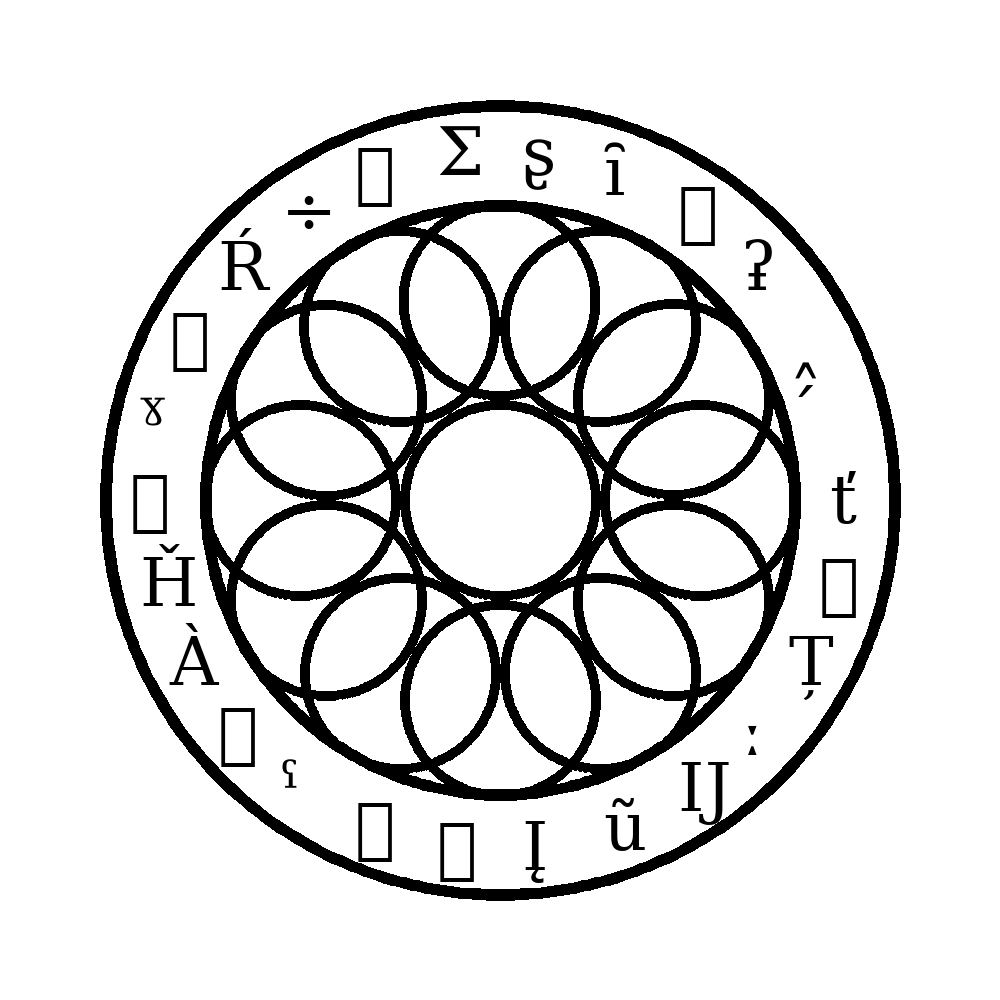
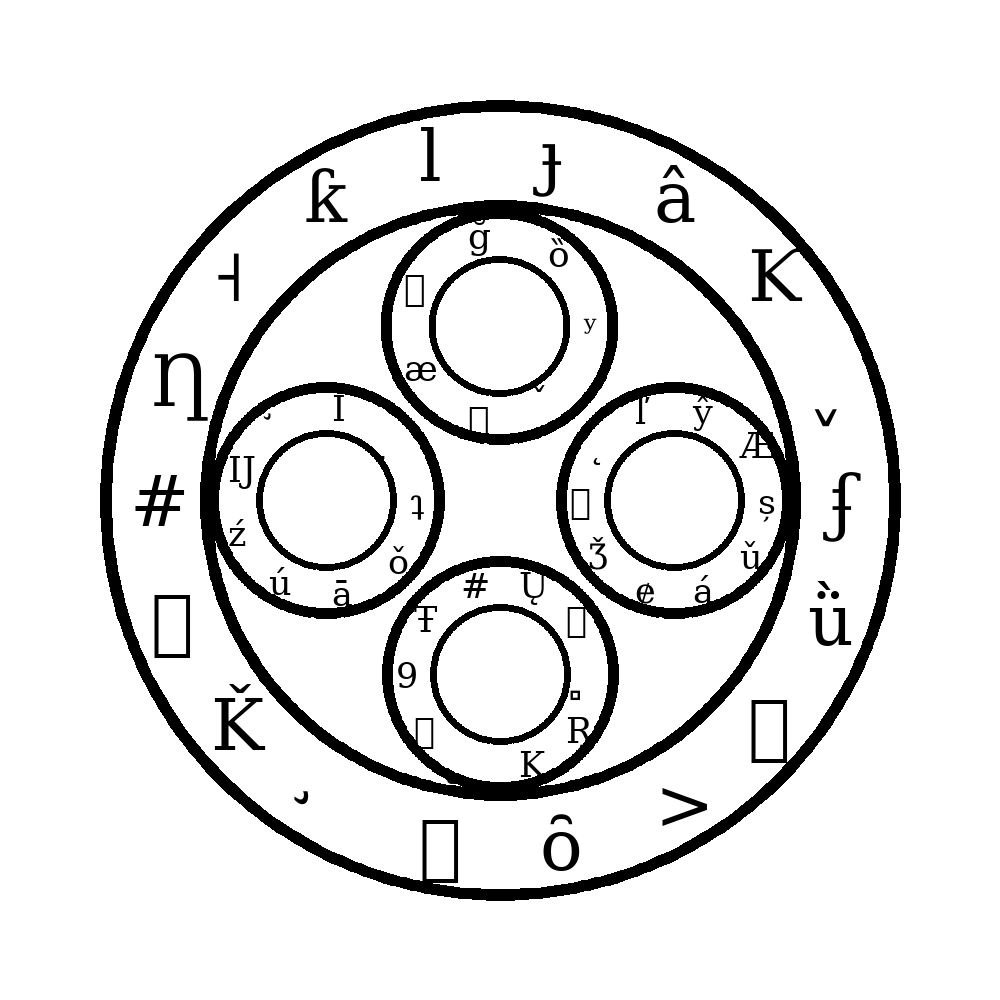
Added a pentagram to the options of possible inner circles

diff --git a/Generator/Main.py b/Generator/Main.py
@@ -6,13 +6,15 @@ import random
 import string
 
 
-#draw small circles
+# draw small circles
 def drawCircle(x, y, size):
     d.ellipse(((x-size, y-size), (x+size, y+size)), fill=None, outline = (0 ,0 ,0), width=int(size*0.1))
 
-#places an individual letter
+
+# places an individual letter
 def drawLetter(x, y, letter, font):
     d.text((x, y), letter, font=font, fill=(0,0,0,255))
+
 
 def circleCenter():
     # loop to draw circles in a circle
@@ -25,6 +27,7 @@ def circleCenter():
     # center circle for style
     drawCircle(imageSize / 2, imageSize / 2, imageSize / 10)
 
+
 def textCircleCenter():
     # loop to draw circles in a circle
     circleCount = randint(2, 5)
@@ -32,11 +35,11 @@ def textCircleCenter():
     for i in range(circleCount):
         circleX = int(imageSize / 2) + circleRadius * math.cos(2 * math.pi * i / circleCount)
         circleY = int(imageSize / 2) + circleRadius * math.sin(2 * math.pi * i / circleCount)
-        #draw outer then inner circle
+        # draw outer then inner circle
         drawCircle(circleX, circleY, int(circleRadius * 1) - circleCount * 14)
         drawCircle(circleX, circleY, int(((circleRadius * 1) - circleCount * 14) * 0.6))
 
-        #add text to inner circles
+        # add text to inner circles
         innerCircleRadius = int(((circleRadius * 1) - circleCount * 14) * 0.8)
         innerText = generateText(6, 10)
         fnt = ImageFont.truetype('dejavuserif.ttf', int((imageSize * .04) - (len(innerText) / 2)))
@@ -47,6 +50,18 @@ def textCircleCenter():
             drawLetter(innerTextCircleX - innerCircleRadius * 0.1, innerTextCircleY - innerCircleRadius * 0.2, innerText[i], fnt)
 
 
+def starCenter():
+
+    oldx = int(imageSize/2) + int(imageSize * 0.3) * math.sin(2 * math.pi * 5 / 5)
+    oldy = int(imageSize/2) + int(imageSize * 0.3) * math.cos(2 * math.pi * 5 / 5)
+    sequence = (2, 4, 1, 3, 5)
+
+    for i in range(len(sequence)):
+        newx = int(imageSize/2) + int(imageSize * 0.3) * math.sin(2 * math.pi * sequence[i] / 5)
+        newy = int(imageSize/2) + int(imageSize * 0.3) * math.cos(2 * math.pi * sequence[i] / 5)
+        d.line((oldx, oldy, (newx, newy)), fill=(0, 0, 0), width=int(imageSize / 80))
+        oldx = newx
+        oldy = newy
 
 def generateText(minLetter, maxLetter):
     get_char = chr
@@ -58,47 +73,56 @@ def generateText(minLetter, maxLetter):
 
 
 def getArgs():
-    #gets command line arguments to set background and circle size
+    # gets command line arguments to set background and circle size
     parser = argparse.ArgumentParser(description="enter image size(in pixels) and RGBA color code tuple for the background")
-    parser.add_argument('size', type=int, nargs=1, default=100, help='Size of the image')
-    parser.add_argument('background', type=int, nargs=4, default=(255, 255, 255, 255), help='background color of the circle in RGBA')
+    parser.add_argument('size', type=int, nargs="?", default=1000, help='Size of the image')
+    parser.add_argument('background', type=int, nargs=argparse.REMAINDER, default=(255, 255, 255, 255), help='background color of the circle in RGBA')
     return parser.parse_args()
 
-#gets command line args
+# gets command line args
 args = getArgs()
-#sets a size variable from the size argument
-imageSize = args.size[0]
 
-#creates square background from inputs
+# sets transparency to full if it wasn't specified
+if len(args.background) == 3:
+    args.background.append(255)
+# deals with if there are no args for background and sets it to default white
+elif len(args.background) < 4:
+    args.background = (255, 255, 255, 255)
+
+# sets a size variable from the size argument
+imageSize = args.size
+
+# creates square background from inputs
 im = Image.new("RGBA", (imageSize, imageSize), (args.background[0], args.background[1], args.background[2], args.background[3]))
 
-#sets up drawing
+# sets up drawing
 d = ImageDraw.Draw(im, "RGBA")
 
-#draws inner and outer circle based on image size
+# draws inner and outer circle based on image size
 d.ellipse(((imageSize * 0.10, imageSize * 0.10), (imageSize * 0.90, imageSize * 0.90)), fill=None, outline=(0, 0, 0), width=int(imageSize / 80))
 d.ellipse(((imageSize * 0.2, imageSize * 0.2), (imageSize * 0.8, imageSize * 0.8)), fill=None, outline=(0, 0, 0), width=int(imageSize / 80))
 
-#sets random circle text
+# sets random circle text
 text = generateText(10, 40)
-#intialize font
+# intialize font
 fnt = ImageFont.truetype('dejavuserif.ttf', int((imageSize * .08) - (len(text) / 2)))
-#places text in the middle of the 2 base circles
+# places text in the middle of the 2 base circles
 circleRadius = int(imageSize * 0.35)
 textCircleCount = len(text)
 for i in range(len(text)):
     textCircleX = int(imageSize / 2) + circleRadius * math.cos(2 * math.pi * i / textCircleCount)
     textCircleY = int(imageSize / 2) + circleRadius * math.sin(2 * math.pi * i / textCircleCount)
-    #some adjustments to x and y so they fit into the circle better
+    # some adjustments to x and y so they fit into the circle better
     drawLetter(textCircleX - (imageSize * .02), textCircleY - (imageSize * .04), text[i], fnt)
 
-#choses what the inner circle type will be out of a list and runs it
+# choses what the inner circle type will be out of a list and runs it
 switcher = {
     1:circleCenter,
-    2:textCircleCenter
+    2:textCircleCenter,
+    3:starCenter
 }
-innerStyleFunction = switcher.get(randint(1, 2))
+innerStyleFunction = switcher.get(randint(1, 3))
 innerStyleFunction()
 
-#saves the image
+# saves the image
 im.save("test.png")
